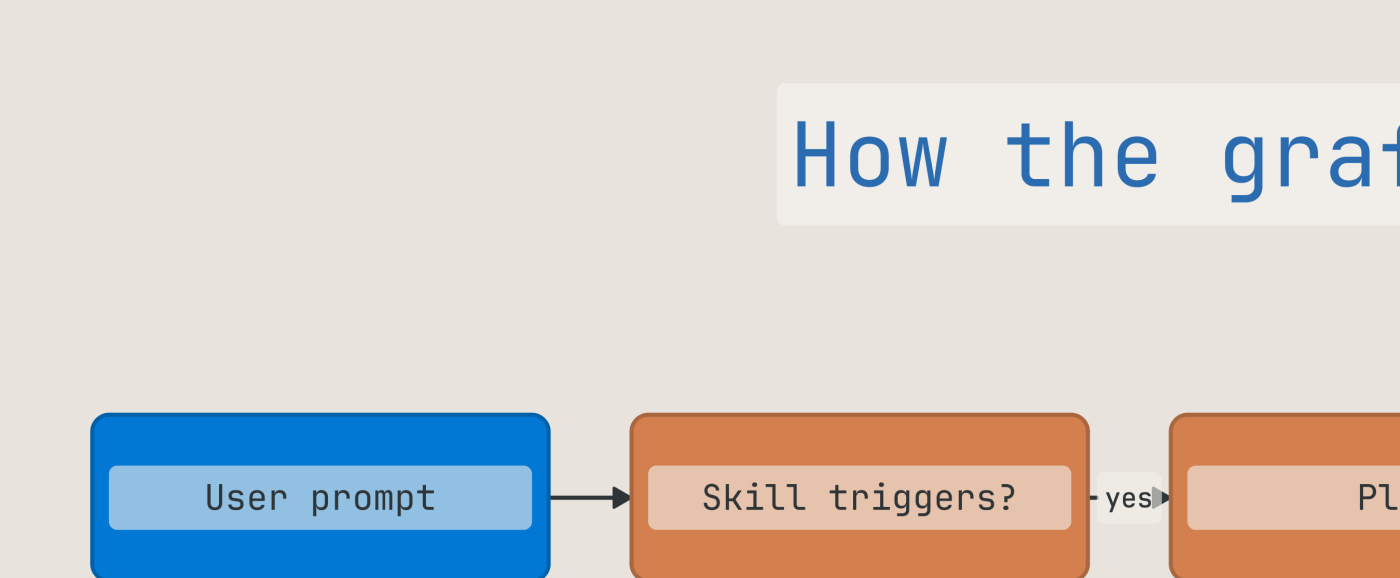
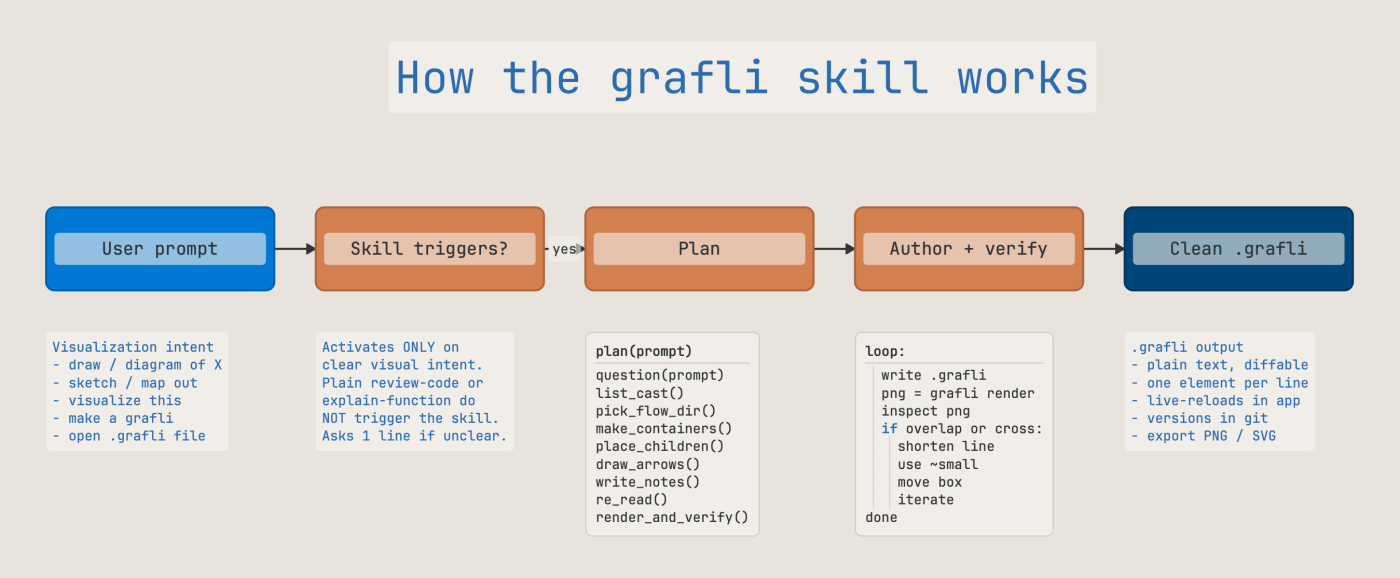
Fix: grafli render dropped most of wide-and-short scenes (DPR vs null target)

diff --git a/grafli/view.py b/grafli/view.py
@@ -4691,12 +4691,19 @@ class GrafliView(CommandsMixin, ComplexityMixin, MinimapMixin, QGraphicsView):
                 size.height() * scale,
                 QImage.Format.Format_ARGB32_Premultiplied,
             )
-            image.setDevicePixelRatio(scale)
             image.fill(SCENE_BG)
             painter = QPainter(image)
             painter.setRenderHint(QPainter.RenderHint.Antialiasing)
-            self._scene.render(painter, QRectF(), rect)
+            # Always render against an explicit pixel target. Setting DPR
+            # before render() with a null target makes Qt drop most of the
+            # scene for certain aspect ratios (wide-and-short pipelines).
+            self._scene.render(
+                painter,
+                QRectF(0, 0, image.width(), image.height()),
+                rect,
+            )
             painter.end()
+            image.setDevicePixelRatio(scale)
         return image
 
     def _render_png_to_path(

diff --git a/CHANGELOG.md b/CHANGELOG.md
@@ -7,6 +7,17 @@ and this project adheres to [Semantic Versioning](https://semver.org/spec/v2.0.0
 
 ## [Unreleased]
 
+### Fixed
+- **`grafli render` clipped wide-and-short diagrams.** Setting
+  `QImage.setDevicePixelRatio(2)` *before* `QGraphicsScene.render(...)`
+  with a null target rect made Qt drop most of the scene — the bug
+  surfaced only for certain aspect ratios (LR pipelines like the new
+  skill-pipeline diagram on `docs/ai.md` rendered to a near-blank PNG).
+  The render path now passes an explicit pixel-extent target rect and
+  defers the DPR setting until after the paint completes. Tall diagrams
+  (e.g. the RPG-engine example) were also subtly affected; the fix
+  produces complete renders for both shapes.
+
 ## [0.2.0] - 2026-05-05
 
 ### Added
